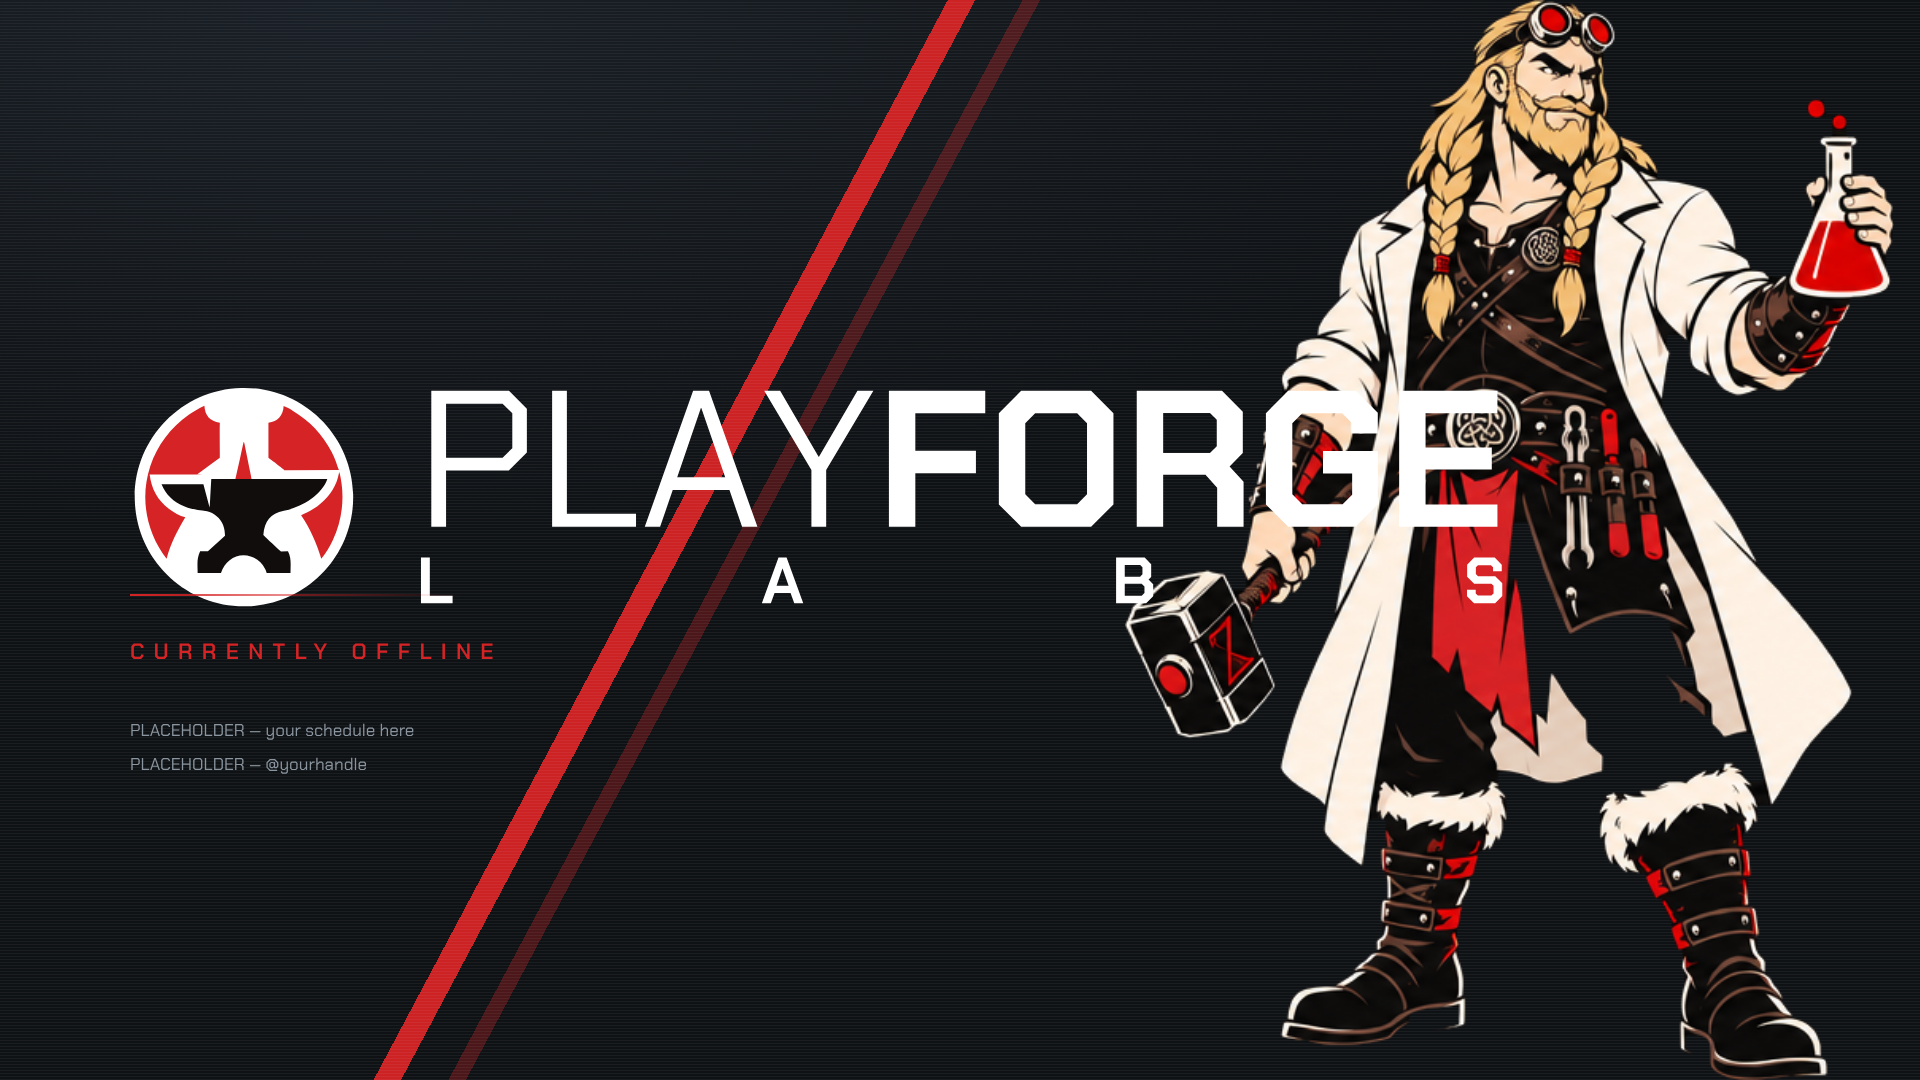
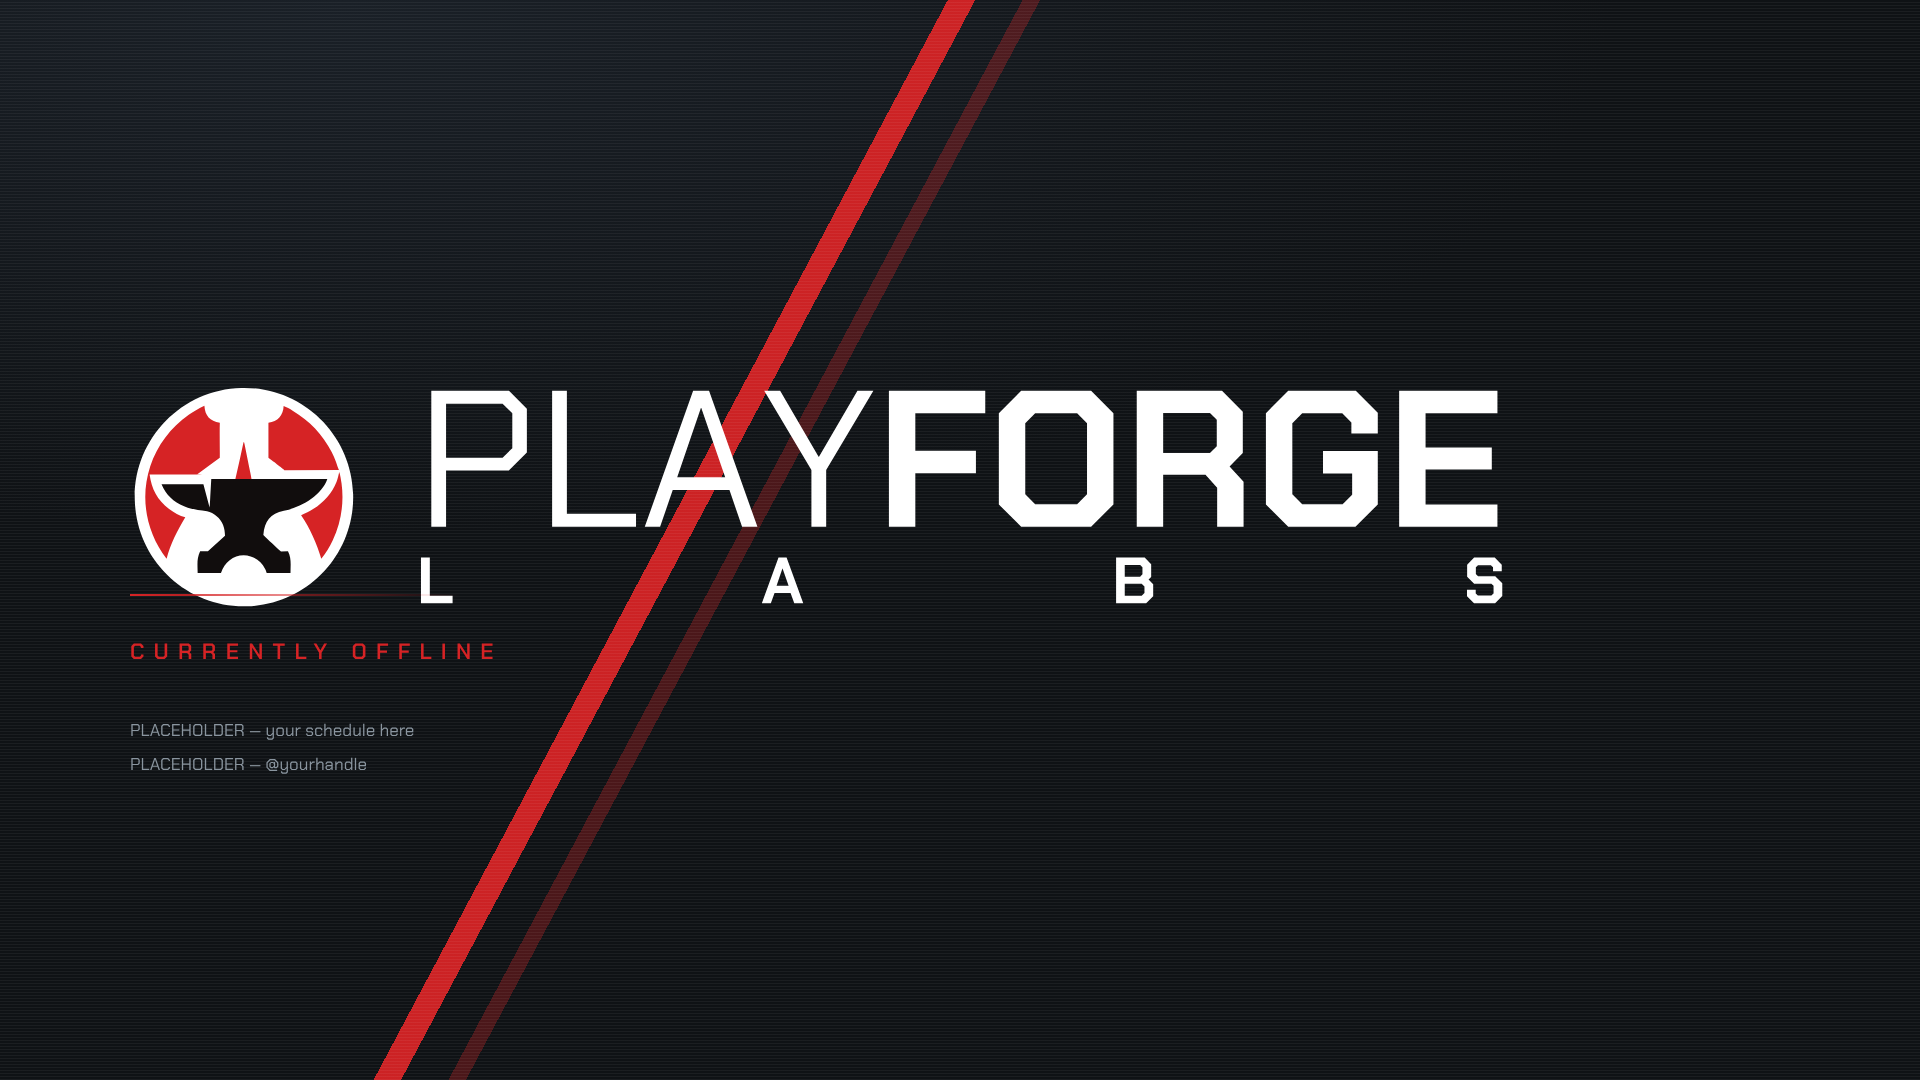
Remove mascot from the offline screen
Type-only composition. Lockup size, position, shard, rule, label and
placeholder lines are unchanged.

Claude-Session: https://claude.ai/code/session_01VQpikmwb7K7sP9jWmUW1g1

Changed region(s): [[0.5625, 0.0, 1.0, 1.0], [0.6562, 0.9167, 0.7188, 0.9778]]

diff --git a/brand/tools/channel.js b/brand/tools/channel.js
@@ -46,8 +46,6 @@ const SCENES = {
  'twitch-banner': { w:1200, h:480, lock:775, plate:'104%', pad:52, label:'Forged live', ls:15, overlap:true },
  'twitch-offline': { w:1920, h:1080, custom:`
    <div class="shard"></div><div class="grain"></div>
-   <img src="${PLATE}" style="position:absolute;right:26px;bottom:0;height:100%;
-        object-fit:contain;object-position:bottom;z-index:1">
    <div class="lock" style="position:absolute;left:130px;top:46%;
         transform:translateY(-50%);width:1382px;z-index:3">${LOCKUP_WHITE}</div>
    <div class="rule" style="position:absolute;left:130px;top:55%;width:330px;margin:0;z-index:3"></div>
